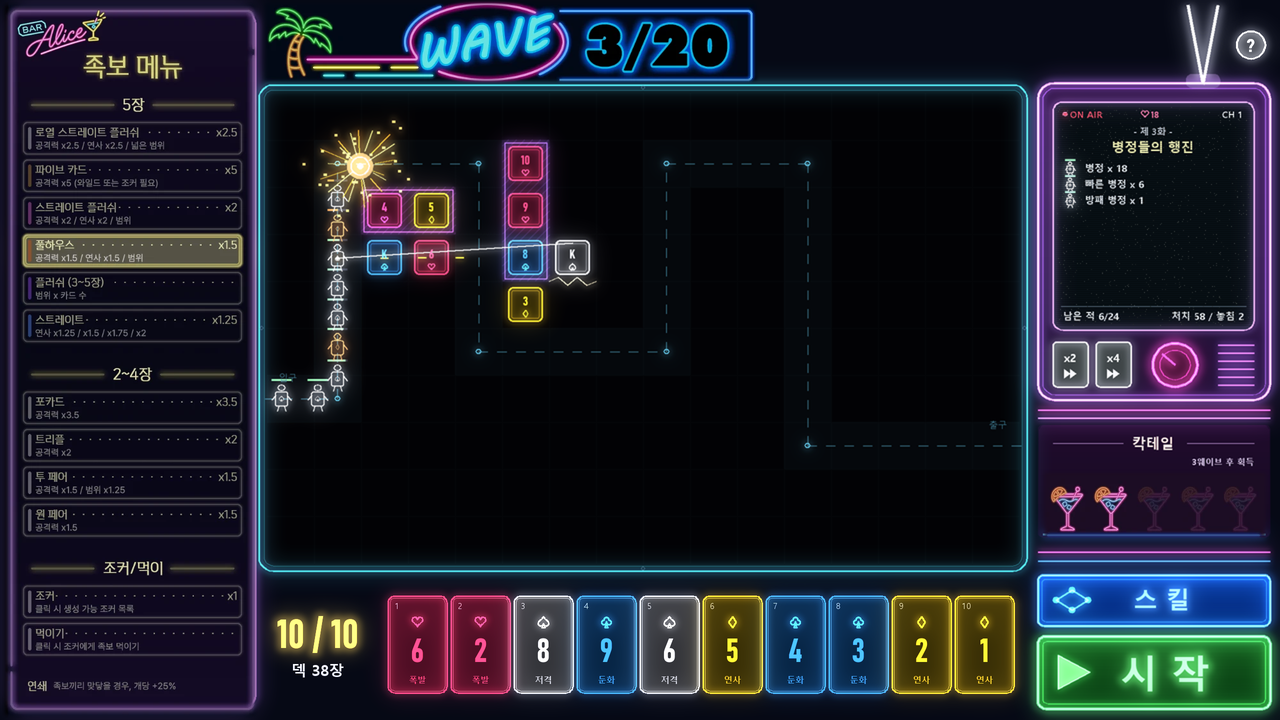
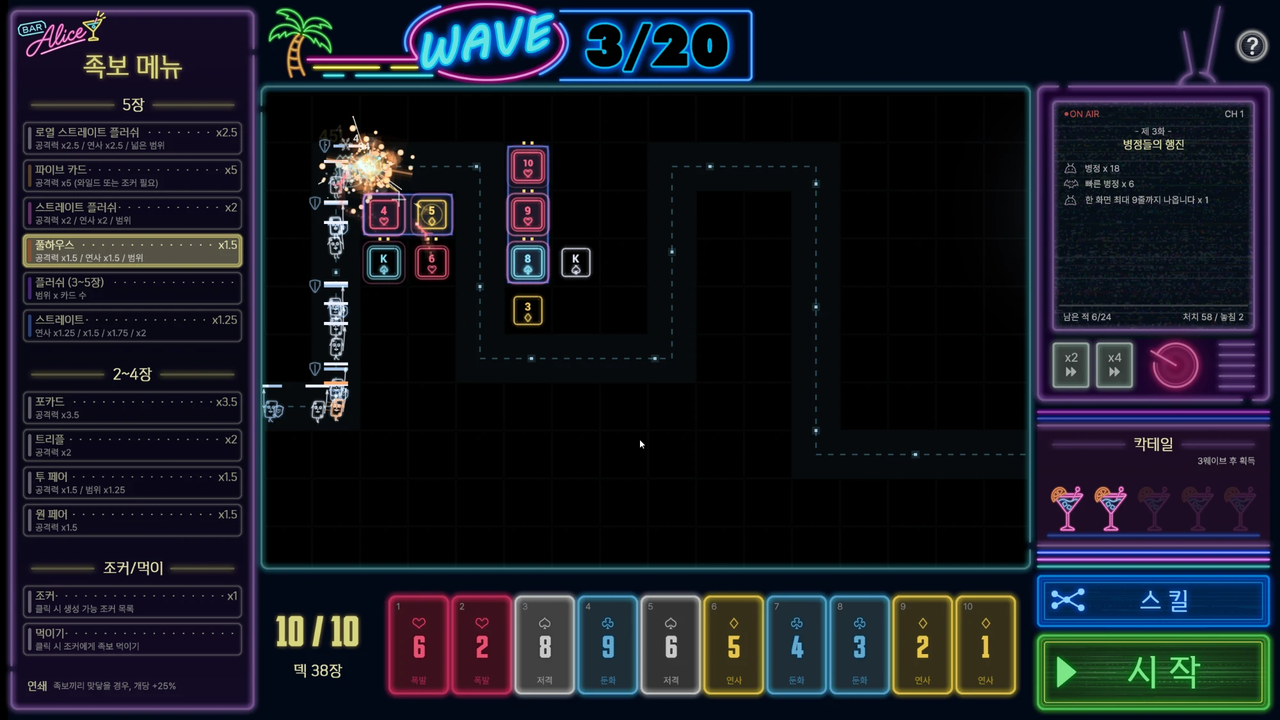
Actually switch the Alice UI mockup to the full reference image (D-402 code)

diff --git a/tools/neon/alice_ui_mock.py b/tools/neon/alice_ui_mock.py
@@ -461,9 +461,7 @@ def static(img, box):
 
 REF = os.path.join(os.path.dirname(__file__), '..', '..', 'docs', 'images', 'ui-1120', 'reference.webp')
 USE_REF = os.path.exists(REF)   # 시안 그림이 있으면 간판 · 로고 · 칵테일은 시안에서 잘라 그대로 붙인다 (사용자: 이미지 그대로)
-REF_CUTS = [(262, 0, 760, 84),      # 야자수 + 네온 줄 + WAVE 타원 + 3/20 상자
-            (2, 2, 258, 718),       # 왼쪽 족보 메뉴 패널 통째 (로고 포함)
-            (1041, 470, 1269, 540)]  # 칵테일 잔 다섯 + 선반 줄
+REF_CUTS = [(0, 0, 1280, 720)]  # 사용자: 전부 따오기 (D-402) — 화면 전체를 시안 그림 그대로
 
 
 def paste_ref(img):
@@ -471,6 +469,8 @@ def paste_ref(img):
     for (x0, y0, x1, y1) in REF_CUTS:
         part = ref.crop((x0, y0, x1, y1))
         m = Image.new('L', part.size, 0)
+        if part.size == img.size:
+            return part
         ImageDraw.Draw(m).rectangle([3, 3, part.size[0] - 4, part.size[1] - 4], fill=255)
         img.paste(part, (x0, y0), m.filter(ImageFilter.GaussianBlur(2)))
     return img
